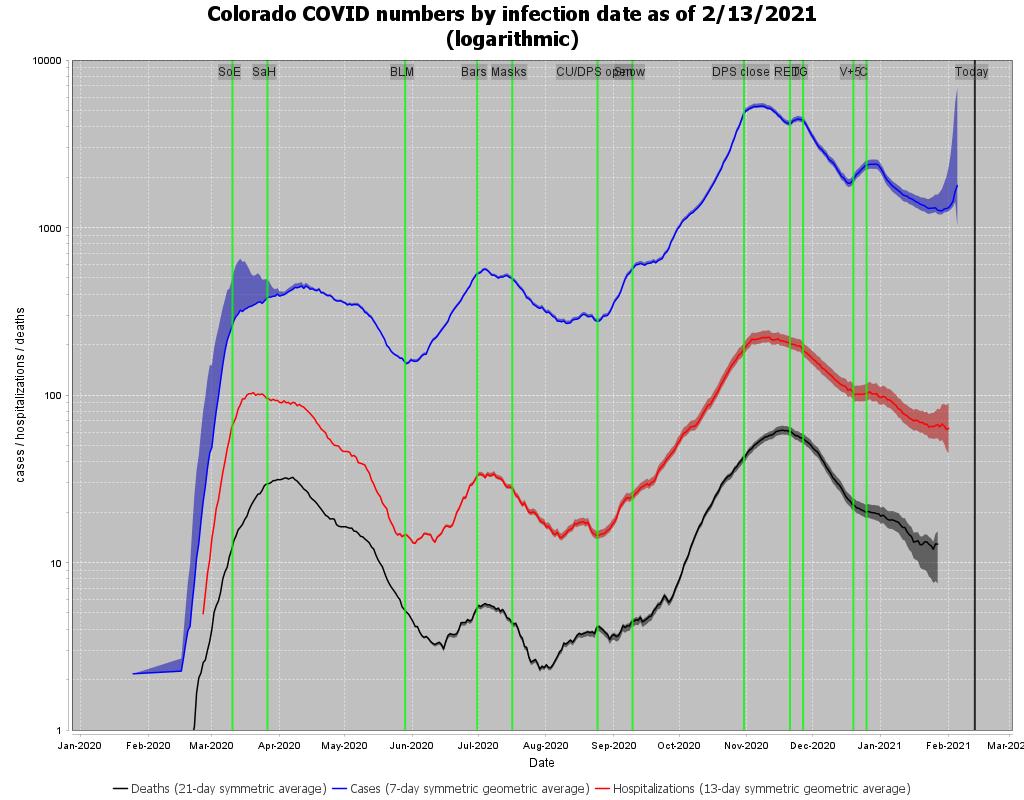
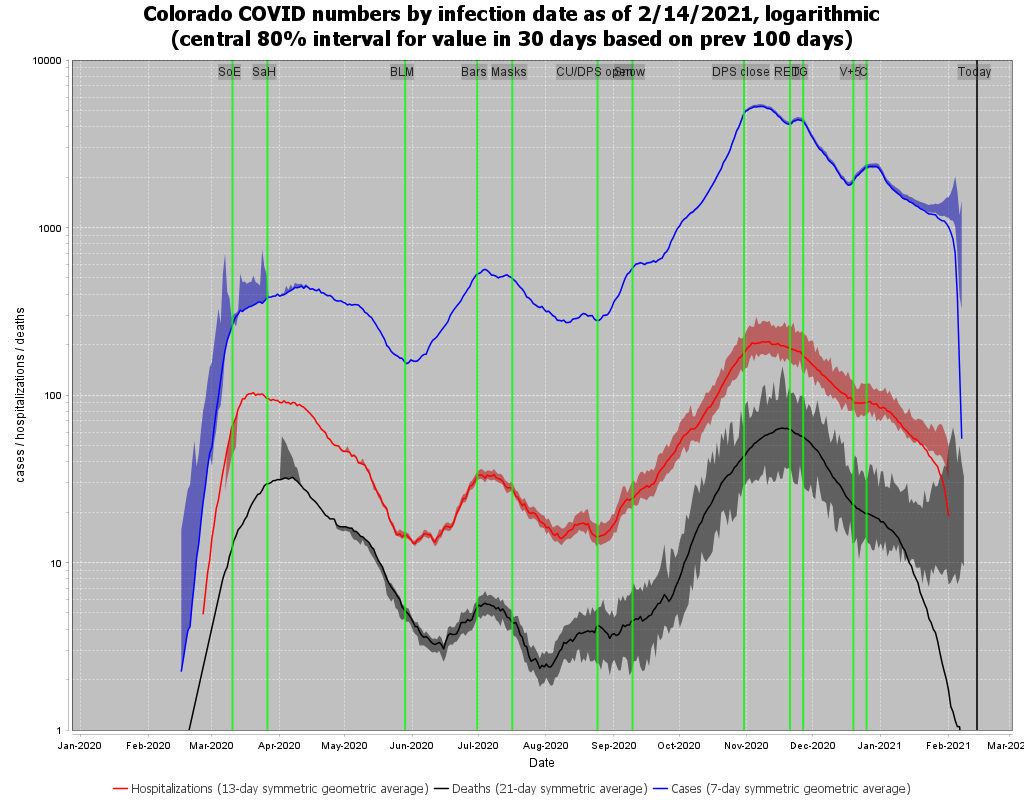
2-14, and completely rework confidence intervals

diff --git a/README.md b/README.md
@@ -19,32 +19,30 @@ Charts from Colorado's COVID data
 
 To track true epdidemic data, we'd like to look at data by day of infection.  Most sources only give numbers by day of public release, but this can be delayed by days, weeks, or even up to a year.  This data appears to be "up to date", but each value is just a snapshot created as a linear combination of values from a range of dates in the past: it's being obfuscated!  Colorado is unusual in that the state tracks most numbers by day of symptom onset, and by subtracting 5 days we can estimate day of infection.  This may be both imprecise and incomplete, but it is a better estimate of epidemic data than is available in any other way.
 
-The issue with these numbers is that they are always incomplete.  Cases with an infection date of yesterday, hospitalizations infected a week ago, or deaths infected two weeks ago will almost certainly not be reported yet.  One common approach, used by the CDPHE dashboard, is to pick an arbitrary cutoff in the past in which to mark numbers as "inaccurate".  But this doesn't work very well: numbers lag by a greater or lesser amount depending on test returns, and even more importantly there is really no upper bound on which they can change.  Colorado routinely adds new numbers from months ago, with a few outliers from as much as a year in age.  In generating these graphs, I have taken a simple but effective approach to combatting this problem: tracking a rolling average of how much the numbers increase over time and "projecting" them up to the present.
+The issue with these numbers is that they are always incomplete.  Cases with an infection date of yesterday, hospitalizations infected a week ago, or deaths infected two weeks ago will almost certainly not be reported yet.  One common approach, used by the CDPHE dashboard, is to pick an arbitrary cutoff in the past in which to mark numbers as "inaccurate".  But this doesn't work very well: numbers lag by a greater or lesser amount depending on test returns, and even more importantly there is really no upper bound on which they can change.  Colorado routinely adds new numbers from months ago, with a few outliers from as much as a year in age.  In generating these graphs, I have taken a simple but effective approach to combatting this problem: looking at how much these numbers increase in "recent" historical data to extrapolate a confidence interval for their final values.
 
 The graphs shown here represent a few things.  Tests, cases, hospitalizations, and deaths are provided by infection date. The "rates" graphs are merely divisions of two of these values, expressed as a percentage.  Most charts are expressed as an average over time.
 
 # Read On
 
-Although analytics are used here, a key goal of the project is that it is not a model predicting the future: it is only trying to give an accurate estimate of what has happened in the past. It has been demonstrated that the best possible model predicting future spread is actually just choosing two points on the log graph and drawing a line; use this model to predict the future if you dare.
+Although analytics are used here, a key goal of the project is that it is not a model predicting the future: it is only trying to give an accurate representation of what has happened in the past. It has been demonstrated that the best possible model predicting future spread is choosing two points on the log graph and drawing a line; this model can be used to do that by picking any two points you choose.
 
-I use logarithmic graphs because contagious diseases spread exponentially, so on a log graph they should almost always end up as a sequence of line segments.  Geometric rolling averages are used in some of the algorithms because spread is geometric.  Geometric rolling averages are used for display on the log graphs because they preserve the area under the curve, which makes the straight lines come out straighter.  Arithmetic averages are used for graphs that have a Cartesian scale.
+I use logarithmic graphs because contagious diseases spread exponentially, so on a log graph they should almost always end up as a sequence of line segments.  Geometric rolling averages are used in some of the algorithms because spread is geometric.  Geometric rolling averages are used for display on some of the log graphs because they preserve the area under the curve, which makes the straight lines come out straighter.  Arithmetic averages are used for graphs that have a Cartesian scale, and for log graphs where the numbers are too small for geometric averages to work out smoothly (daily numbers of 0 can be a problem!).
 
-A central use of the epidemic curves is to estimate what actions we have done that affect the epidemic.  When we view the true epidemic curve by day of infection, the results of an action should be visible (eventually) on the very day it happened.  Several of the "events" shown on the graph were chosen as things that obviously affected spread: the day Governor Polis re-closed bars, and the day he mandated masks, were chosen because they obviously should change the curve - and they did.  Several other events on the graph (the state of emergency, the stay-at-home order, the beginning of the Black Lives Matter protests, the state's first snowfall, Thanksgiving, Christmas, and the day around half of the state moved to "red" status) are included because they seem significant, but the effects may be uncertain.  Thirdly I have pinned two days as the start and end of the "November wave", which correspond identically to the opening and closing of Denver Public Schools - but this is chosen retrospectively, and could just be conincidence.  Finally, V+5 is the 5th day after vaccinations started, which (when measured by day of infection) should represent the start of a roughly linear decline in hospitalization and mortality rates (but this data is still incomplete).
+A central use of the epidemic curves is to estimate what actions we have done that affect the epidemic.  When we view the true epidemic curve by day of infection, the results of an action should be visible (eventually) on the very day it happened.  Several of the "events" shown on the graphs were chosen as things that obviously affected spread: the day the state re-closed bars, and the day it mandated masks, were chosen because they obviously should change the curve - and they did.  Several other events on the graph (the state of emergency, the stay-at-home order, the beginning of the Black Lives Matter protests, the state's first snowfall, Thanksgiving, Christmas, and the day around half of the state moved to "red" status) are included because they seem significant, but the effects may be uncertain.  Thirdly I have pinned two days as the start and end of the "November wave", which correspond identically to the opening and closing of Denver Public Schools - but this is chosen retrospectively, and could just be conincidence.  Finally, V+5 is the 5th day after vaccinations started, which (when measured by day of infection) should represent the start of a roughly linear decline in hospitalization and mortality rates (but this data is still incomplete).
 
 # The Math
 
-Read on at your mathematical peril.  CDPHE gives us data archives for each day, and each day includes cases, hospitalizations, and deaths by date of onset.  Subtracting 5 gives us a good estimation of date of infection.  We end up with a three-dimensional set of data. Dimension 1 is the "day of data", and is the released numbers for each day.  Dimension 2 is the "day of infection" (or more generally, the "day of type"): for each day of data, we have an entirely new number for each day of infection.  Dimension 3 is the numbers (e.g., cases) themselves.  The graphs here show only the most recent snapshot of the most recent day of data (though projections are calculated from each previous day); representing all three dimensions is done in the software by creating an animation.
+CDPHE gives us data archives for each day, with each day's data including cases, hospitalizations, and deaths by date of onset.  Subtracting 5 gives us a good estimation of date of infection.  We end up with a three-dimensional set of data. Dimension 1 is the "day of data", and is the released numbers for each day.  Dimension 2 is the "day of infection" (or more generally, the "day of type"): for each day of data, we have a scalar number for each day of infection.  Dimension 3 is the numbers (e.g., cases) themselves.  The graphs here show only the most recent snapshot of the most recent day of data (though historical data is used to create the confidence intervals); representing all three dimensions can be done in the software with animated graphs.
 
-If we track a day of infection through its consecutive days of data, we (usually) see it increasing.  For example, through days 0 through 5 after infection it may remain at 0.  Then it jumps to 5, then 10 (x2), then 30 (x3), then 100 (x3.3), then 120 (x1.2), then 140 (x1.17), and so on.  This exemplifies the delay between infection (or any other incomplete metric) and data: for each number of days of delay and each day of data, we have a multiplicative ratio (also a 3-dimensional data set).  What I do is track the ratio for each "delay" value, and take a moving average of those daily numbers.  To be precise, I use a Kalman geometric average with (basically arbitrary) weighting 14+delay for each day.  At the end, final projections can be found by muliplying together all of these ratios for each incomplete day.
-
-These projections give a pretty solid central estimate, but with extremely high variance.  They are particularly vulnerable to "being mislead" by a changing situation.  Notably, if the turnaround time on testing (or more generally, the time from infection to reporting) changes, the rolling average - based on the old turnaround time - will be off in a predictible direction.  This means the predictions over every holiday will be too low, and the predictions after the holiday will then be too high; for "the holidays" this effect was extremely pronouced.  To solve this, we'd like to find credible upper and lower bounds for predictions.  I believe the ideal way to handle this would be to measure the day-of-reporting for all the numbers from a given day-of-infection, choose an appropriate distribution to pair with it, and find a credible range of distribution fits for the incomplete data to then find a credible range of final numbers.  For the moment I do something different and much simpler: just looking at the 10th and 90th percentiles of historical data (ratios for how much numbers have increased from day N to the final data) and using those as upper and lower bounds.  This still has the issue that there is no "final" number; it can always be changed - and this makes it also vulnerable to being mislead.  When CDPHE adds on a single case from a year ago, raising the cases on that day from 5 to 6, this represents a 20% increase; if this happens on one day per week then it would be a 3% increase; so does that mean that every day's numbers are going to increase by 3% after a year?
+If we make a simple line graph of the data we want (cases, CFR, or R value for instance), it will be incomplete for recent days since it's by day of infection and recent infections have a lower representation in the data.  But over time these numbers will stabilize (usually).  What I do is look at how they've stabilized in the past to make a confidence interval for where they will end up at in 30 days.  For instance, an infection day 10 days in the past will have some cases recorded, but the number is extremely incomplete.  But if we look at days of data of 40+ days ago, we have 30 days worth of increase for the corresponding 10-day-delay.  We can use those values (always multiplicatively) to get a sample of possible endpoints (in 30 days) for today's numbers (from 10 days ago).  This is done *after* all smoothing, making the confidence interval precise with respect to the graph curve.  If you look at the same graph in 30 days, it should fall within the confidence interval the given percentage of the time - assuming circumstances remain roughly the same.  Circumstances are often changing, and of course the data from one day to the next is not independent.  It is probably possible to predict whether the final numbers will be toward the top or the bottom of expectations based on whether current curcumstances (particularly, testing turnaround times) are better or worse than the average over the previous 100+ days.
 
 Estimating test numbers by infection day is a completely unrelated calculation.  A negative test certainly has no onset/infection day, but to find positivity by onset/infection day we have to estimate one. To put it most simply: for each new day of data, the tests are distributed to an onset/infection day using the same distribution as the cases for that day-of-data have.   More technically, on each day of data, new cases are added for each day of infection, and new tests are added as just a single total for the day. A positivity value for that day of data can easily be calculated, and dividing the number of new cases for each day of infection by that positivity can give us an estimate of the tests for that day of infection.  This test value by itself isn't particularly noteworthy, though it is important that the total number of tests is not changed by this algorithm - we're simply moving from them around from the day of data to the day of infection.
 
-Once this is all done, R values are trivial to calculate; the only real work is figuring out how to smooth them.  Assuming a reproductive cycle length (serial interval) of exactly 5 days, the R value is just equal to the daily growth over a 5-day period.  Smoothing is done, first using a weekly symmetric algebraic average to get the daily numbers (using a full week is essentially needed to avoid day-of-week issues where weekend numbers are much smaller, but these can still creep in during three-day weekends), then simply looking at the growth over a 5-day period.  In the final chart creation, the daily R values are geometrically smoothed over a symmetric configurable time period (currently +-10 days, but making this smaller or changing it to 0 gives some very interesting results).
+By comparison, R values are trivial to calculate; the only real work is figuring out how to smooth them.  Assuming a reproductive cycle length (serial interval) of exactly 5 days, the R value is just equal to the daily growth over a 5-day period.  Smoothing is done, first using a weekly symmetric algebraic average to get the daily numbers (using a full week is essentially needed to avoid day-of-week issues where weekend numbers are much smaller, but these can still creep in during three-day weekends), then simply looking at the growth over a 5-day period.  In the final chart creation, the daily R values are geometrically smoothed over a symmetric configurable time period (currently +-10 days, but making this smaller or changing it to 0 gives some very interesting results).  The exact same method of finding confidence intervals is used for the reproductive, rates, and cases graphs.
 
 If you believe you should understand this explanation, but do not, I urge you to contact me with questions.  Mathematically, the workings here are intended to be intuitive and visualizable.  This is a model of how the numbers should work; there is no fitting to how they do work.  The only failure, I believe,  is that I should be tracking 95% confidence intervals rather than rolling averages.
 
 # The Programming
 
-The code is simple and ugly.  I picked java because that's what I wrote my last program in, googled to find a chart program, and then went to work.  The code is included as an Eclipse project - as the data is included as a sequence of CSV's - in sister github projects.  There is a lot more that is visualized with the charts created by the program - animated GIFs show the numbers over time, numbers can be seen by date of infection, onset, reporting, or death (all of which are incomplete), county final numbers are available (only state-wide numbers are available by onset day, so the final numbers are no different than what can be found in any other data source), the average age from infection/onset/reporting/death to CDPHE release can be found, and...so on.
+The code is included as an Eclipse project - as the data is included as a sequence of CSV's - in sister github projects.  There is a lot more that is visualized with the charts created by the program - animated GIFs show the numbers over time, numbers can be seen by date of infection, onset, reporting, or death (all of which are incomplete), county final numbers are available (only state-wide numbers are available by onset day, so the final numbers are no different than what can be found in any other data source), the average age from infection/onset/reporting/death to CDPHE release can be found, and...so on.
